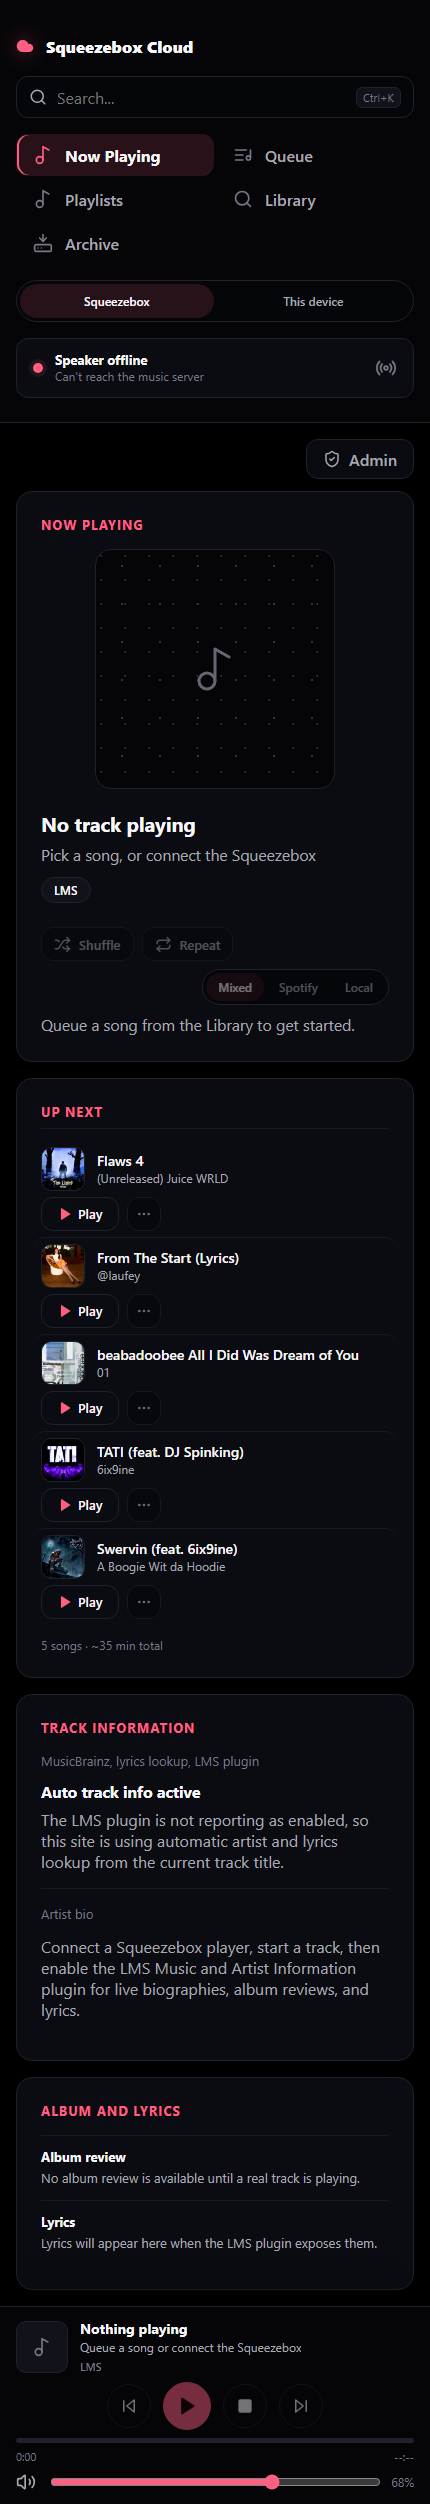
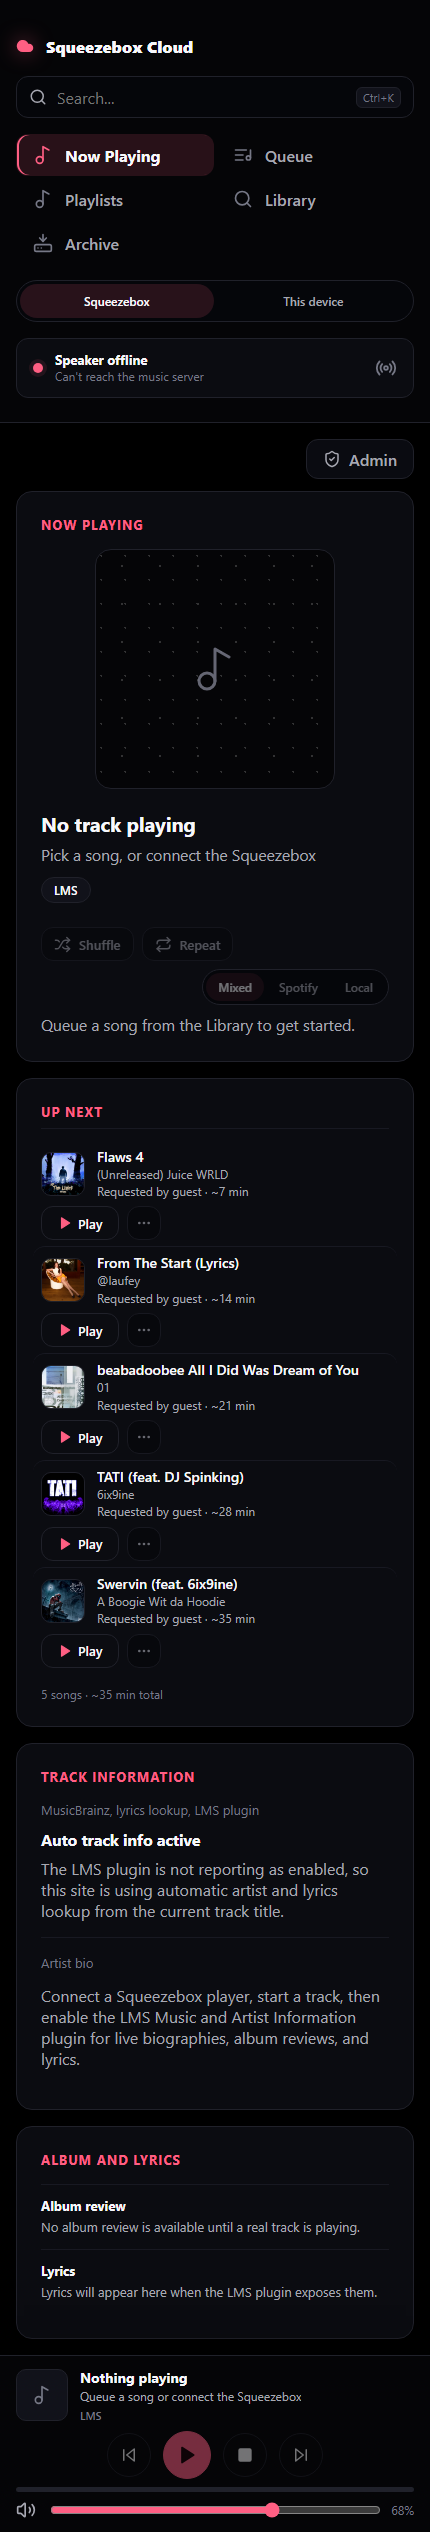
Judge round-2: restore mobile queue ETA as a labelled line; drop idle time orphan
- Phone queue rows regain requested-by/ETA as one composed, labelled line in
  the meta cell ('Requested by guest · ~7 min') instead of headerless columns.
- The player bar no longer shows an orphaned '0:00 / --:--' when idle; live
  streams with unknown length still show elapsed time.
- Evidence captures added: queue kebab open (move/edit/remove verbs) and a
  max-scroll library shot proving rows clear the sticky bar.

diff --git a/src/styles.css b/src/styles.css
@@ -550,6 +550,8 @@ nav button.active svg { color: var(--rose); }
 }
 .queue-row small, .result-row small { color: var(--muted); font-size: 12px; overflow: hidden; text-overflow: ellipsis; white-space: nowrap; }
 .queue-row > span, .result-row > span { color: var(--faint); font-size: 12px; min-width: 0; overflow-wrap: anywhere; font-variant-numeric: tabular-nums; }
+/* phone-only composed request line (desktop shows the labelled columns instead) */
+.queue-row__request { display: none; }
 
 /* row actions — one primary (Play) + a "More" overflow; actions reveal on hover/focus */
 .queue-actions, .track-actions { display: flex; justify-content: flex-end; align-items: center; gap: var(--s2); flex-wrap: wrap; }
@@ -910,8 +912,10 @@ nav button.active svg { color: var(--rose); }
     row-gap: 6px;
   }
   /* requested-by / ETA read as unlabeled debris without their desktop column
-     headers — drop them on phones (the row keeps title/artist + actions). */
+     headers — on phones the same facts render as one labelled line in the meta
+     cell instead (.queue-row__request). */
   .queue-row > span { display: none; }
+  .queue-row__request { display: block; color: var(--faint); font-size: 11px; }
   .result-row > span { grid-column: 2 / -1; }
   .queue-row .queue-actions, .result-row .track-actions { grid-column: 1 / -1; justify-content: flex-start; }
   .queue-row strong, .result-row strong { white-space: normal; }

diff --git a/src/App.tsx b/src/App.tsx
@@ -1049,10 +1049,14 @@ function Progress({
           }}
         />
       </div>
-      <div className="progress-times">
-        <span>{formatTime(value)}</span>
-        <span>{duration > 0 ? formatTime(duration) : "--:--"}</span>
-      </div>
+      {/* No orphaned "0:00 / --:--" when nothing is playing; a live stream with
+          unknown length still shows its elapsed time. */}
+      {(duration > 0 || value > 0) && (
+        <div className="progress-times">
+          <span>{formatTime(value)}</span>
+          <span>{duration > 0 ? formatTime(duration) : ""}</span>
+        </div>
+      )}
     </div>
   );
 }
@@ -1178,6 +1182,9 @@ function QueueRow({
         <div>
           <strong>{item.title}</strong>
           <small>{item.artist}</small>
+          {/* On phones the requested-by/ETA columns have no headers, so the same
+              facts are composed into the meta cell as one labelled line. */}
+          <small className="queue-row__request">Requested by {item.requestedBy} · ~{item.etaMinutes} min</small>
         </div>
       )}
       <span>{item.requestedBy}</span>

diff --git a/matureui-artifacts/JOBS_AND_VERDICTS.md b/matureui-artifacts/JOBS_AND_VERDICTS.md
@@ -1,0 +1,37 @@
+# Jobs map, quarry record, and judge verdicts
+
+## Job list → where each job lives in the rebuild
+
+| Job | Before | After | Δ |
+|---|---|---|---|
+| J1 Control playback (transport/seek/volume/shuffle/repeat/source) | Only on the Now Playing screen; navigate away and you cannot pause | **Persistent player bar** on every screen (both Squeezebox and this-device modes); shuffle/repeat/source chips on the Now Playing detail | Faster everywhere |
+| J2 Manage queue (reorder/edit/remove/play-now) | Queue panel (2nd column on Now Playing + Queue screen) | Up Next beside Now Playing detail + full-width Queue screen; per-row Play + always-visible overflow menu | Same or faster |
+| J3 Find & add music (5 sources, per-row actions) | Search panel with 3 visible rows + "view all" | Full-width Library page, 25-row fold, pill source tabs, per-row Play + kebab (play-next / queue / save / archive / curation) | Faster (density) |
+| J4 Manage playlists | Playlists panel | Full-width Playlists page (My/Local/Spotify), portaled dialogs for create/rename/delete | Same |
+| J5 Archive | Archive panel | Archive page, grouped lists, scan/refresh, progress badges | Same |
+| J6 Track context (bio/review/lyrics) | Right rail on EVERY screen (irrelevant on Library/Playlists) | Context inspector on Now Playing only | Same speed, correctly scoped |
+| J7 Switch playback target | Sidebar toggle | Sidebar toggle (unchanged); player bar is mode-aware | Same |
+| J8 Admin / connect | Admin route | Admin route, same pipeline, tightened composition | Same |
+
+## Quarried back from the original (restyled)
+- The queue-row inline edit workflow (title/artist, local rows only) and its guard rails.
+- The add-to-playlist popover flow (create-and-add included) — now an inline submenu inside the row menu.
+- The admin connection pipeline (IP cards, numbered steps, port cards, status pills).
+- The archive watch/scan notes, grouped lists, and progress badges.
+- The Ctrl/Cmd+K search affordance, recent-picks sidebar module, Spotify suggestion chips.
+- The `aria-` labelling scheme and all API/behavioural contracts (all 483 unit tests + contract).
+
+## Held-out judge — Round 1 (binding)
+- (a) Identity: **PASS** — "unmistakably the same product… Nothing on the banned list appears."
+- (b) Build quality: **PASS with reservations** — "genuine recomposition, not a restyle… clears 'dramatically better built' on desktop"; narrow viewport flagged.
+- (c) Sloppiest: bar slicing rows in full-page capture (sticky-capture artifact + scroll-under-dock); ragged narrow queue rows (headerless guest/eta debris); empty-tab void + hero how-to paragraph.
+- (d) Job losses: mobile speaker volume LOST (bar hid it on phones); row action kebab invisible in non-hover captures; queue management affordances invisible for same reason.
+
+### Round 1 fixes shipped (commit 6935a57)
+1. Volume row restored in the player bar at all widths (it is remote speaker volume).
+2. Row overflow menus always visible at 60% resting opacity (full on hover/focus).
+3. Mobile queue rows drop the headerless requested-by/ETA lines.
+4. Empty-hero copy cut to one actionable line; Spotify-not-linked empty state names the tabs that work meanwhile.
+
+## Held-out judge — Round 2
+(pending — verdict recorded verbatim below when returned)
